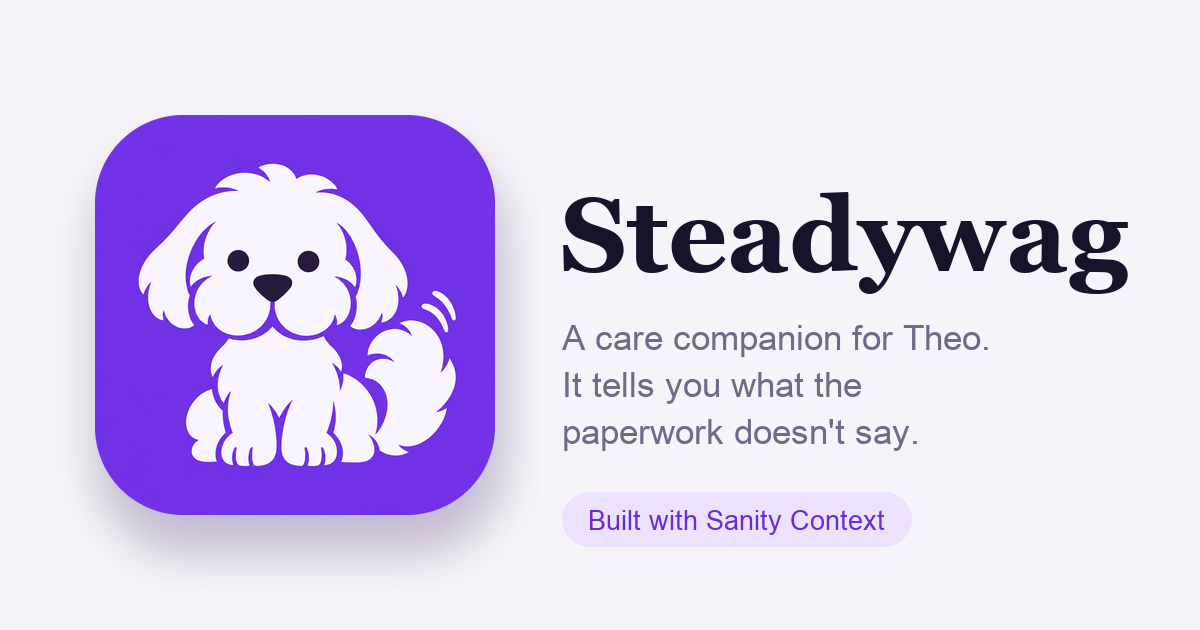
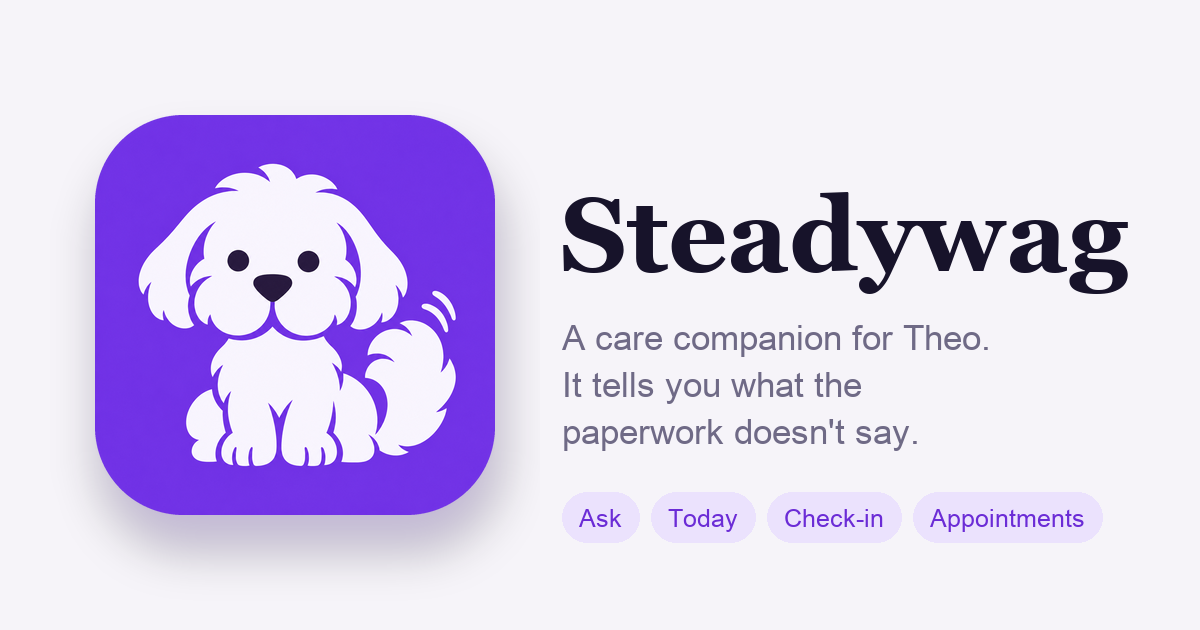
Focus the link preview on the app
Preview image shows Ask, Today, Check-in and Appointments in place of the Sanity pill; page title and description describe what the app does.

Changed region(s): [[0.4625, 0.8143, 0.74, 0.8444], [0.7708, 0.8143, 0.925, 0.8444]]

diff --git a/web/src/app/layout.tsx b/web/src/app/layout.tsx
@@ -26,9 +26,9 @@ export const metadata: Metadata = {
   appleWebApp: { capable: true, title: "Steadywag", statusBarStyle: "default" },
   metadataBase: new URL("https://steadywag.com"),
   openGraph: { siteName: "Steadywag", type: "website" },
-  title: "Steadywag",
+  title: "Steadywag: a care companion for Theo",
   description:
-    "Track a dog with a chronic illness, see what the records say and what they don't, and walk into every vet visit prepared. Built on Sanity.",
+    "Ask about his records, follow his day, log daily check-ins and walk into every vet visit prepared. It tells you what the paperwork doesn't say.",
 };
 
 export default async function RootLayout({ children }: LayoutProps<"/">) {
